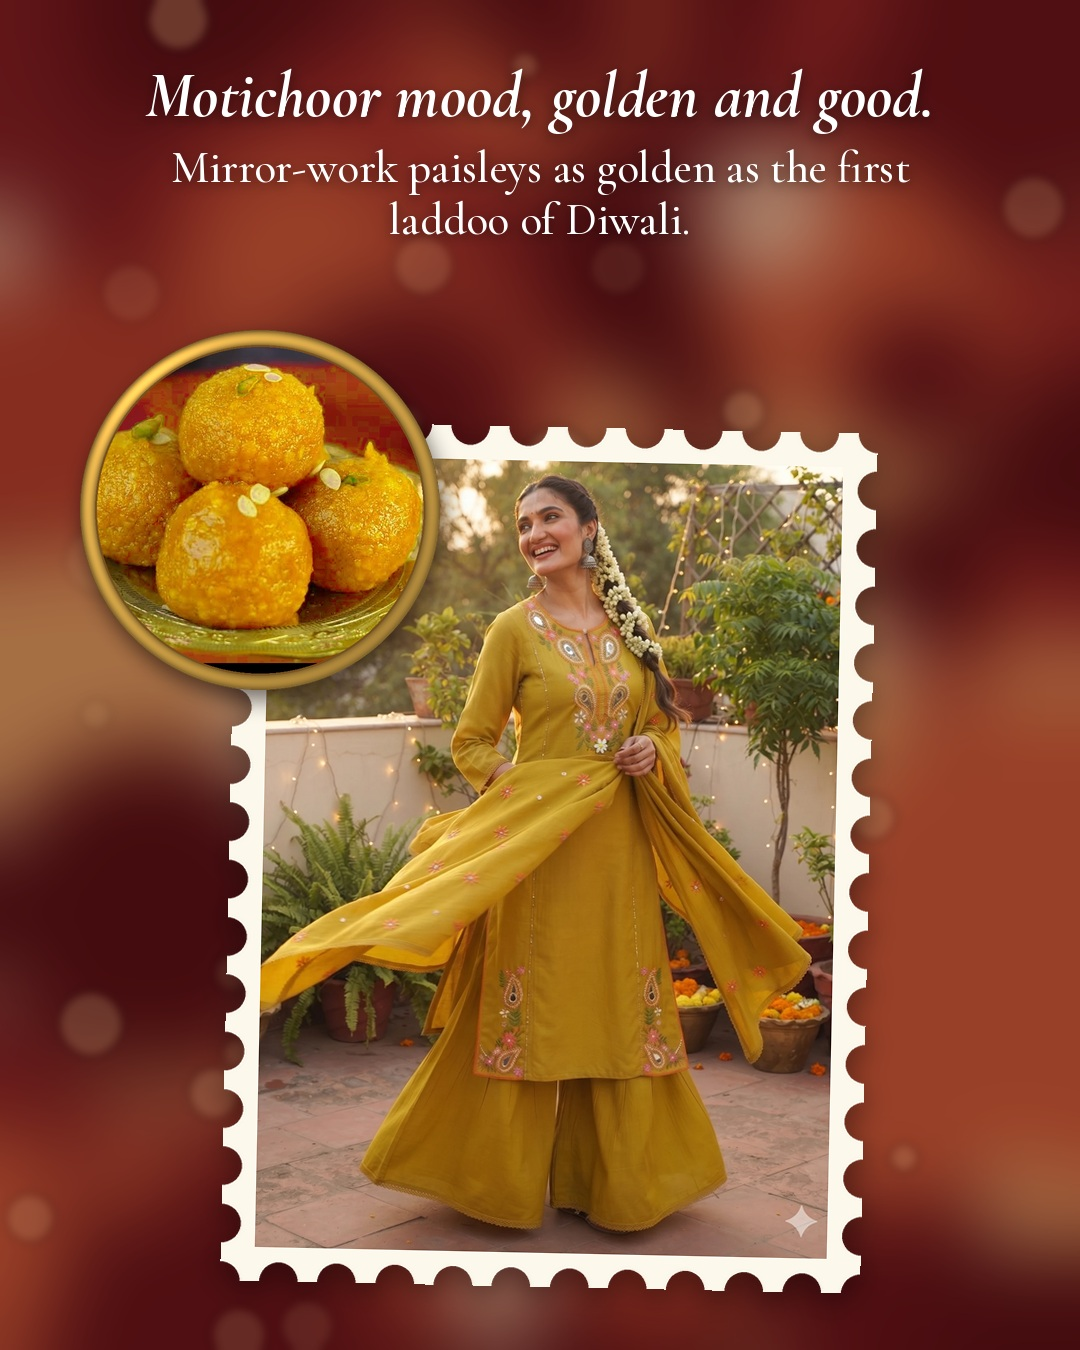
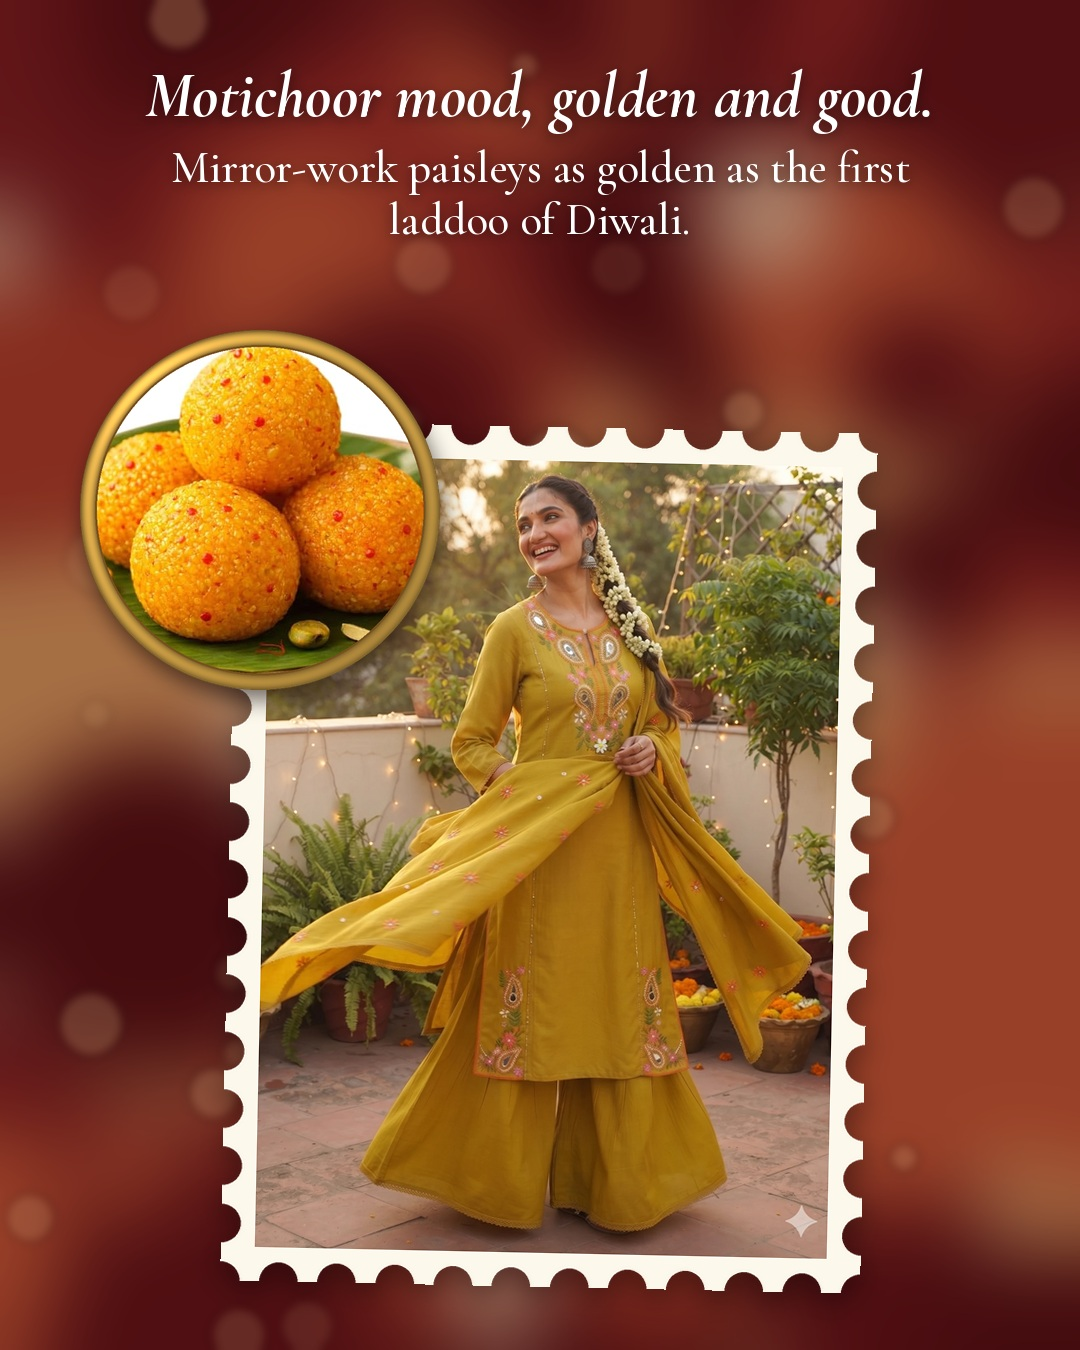
Mithai carousel: yellow motichoor, blackcurrant ice halwa and pista burfi photos
Claude-Session: https://claude.ai/code/session_01LZv7UTnsZcwjx4RXmrtg3u

Changed region(s): [[0.0917, 0.2489, 0.3972, 0.4978]]

diff --git a/marketing/posts/mithai_carousel.py b/marketing/posts/mithai_carousel.py
@@ -25,13 +25,13 @@ CRIMSON = (176, 24, 58)
 
 # look, crop (top fraction, bottom fraction), mithai, plate side, headline, line
 SLIDES = [
-    ("mustard-sharara", (0, 1), "laddoo", "left", "Motichoor mood, golden and good.",
+    ("mustard-sharara", (0, 1), "motichoor", "left", "Motichoor mood, golden and good.",
      "Mirror-work paisleys as golden as the first laddoo of Diwali."),
-    ("indigo-dabu", (0, 1), "blue", "right", "Indigo calm, coconut sweet.",
-     "Blue-pea coconut laddoo and hand block-printed dabu, cool and classic."),
+    ("indigo-dabu", (0, 1), "icehalwa", "right", "Cool as ice halwa, deep as indigo.",
+     "Blackcurrant ice halwa and hand block-printed dabu, crisp, cool and classic."),
     ("pink-short-top", (0, 1), "coconut", "left", "Gulabi and full of mithaas.",
      "A twirl of block-printed pink for the girl who saves room for dessert."),
-    ("green-print", (0, .845), "barfi", "right", "Sea green, sweet and serene.",
+    ("green-print", (0, .845), "pista", "right", "Pista green, easy and serene.",
      "Soft prints for long Diwali days of guests, games and gupshup."),
 ]
 # mithai photo, crop circle (centre x, centre y, radius) as fractions of the photo's width, mirror, and a recolour
@@ -40,7 +40,10 @@ MITHAI = {"laddoo": ("laddoo", (.523, .596, .433), False, ((0, 38), 44, .35)),
           "katli": ("katli", (.57, .43, .28), False, None),
           "coconut": ("coconut", (.49, .9, .4), False, None),
           "blue": ("coconut", (.5, .78, .36), True, ((300, 30), 218, .2, .55, .85)),
-          "barfi": ("barfi", (.5, .485, .45), False, ((60, 140), 158, .25))}
+          "barfi": ("barfi", (.5, .485, .45), False, ((60, 140), 158, .25)),
+          "motichoor": ("yellow-motichoor", (.515, .29, .28), False, None),
+          "icehalwa": ("ice-halwa", (.5, .63, .31), False, None),
+          "pista": ("pista-burfi", (.57, .98, .35), False, None)}
 COVER = ["olive-kalamkari", "mustard-sharara", "indigo-dabu"]
 COVER_TEXT = ["Mithai moods", "& handmade", "looks this", "DIWALI"]
 
